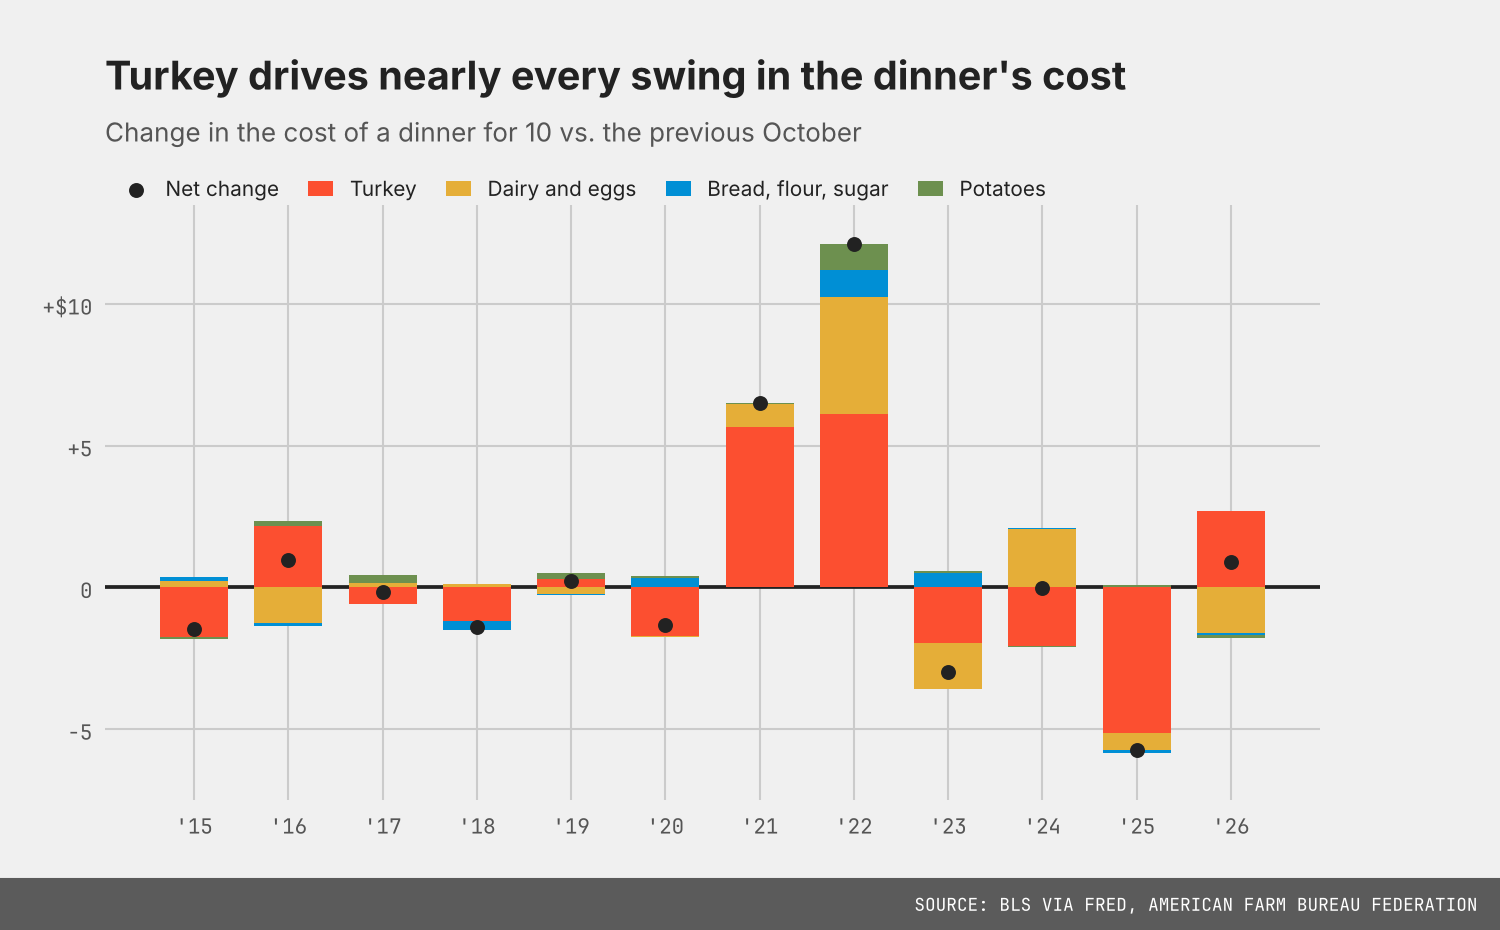
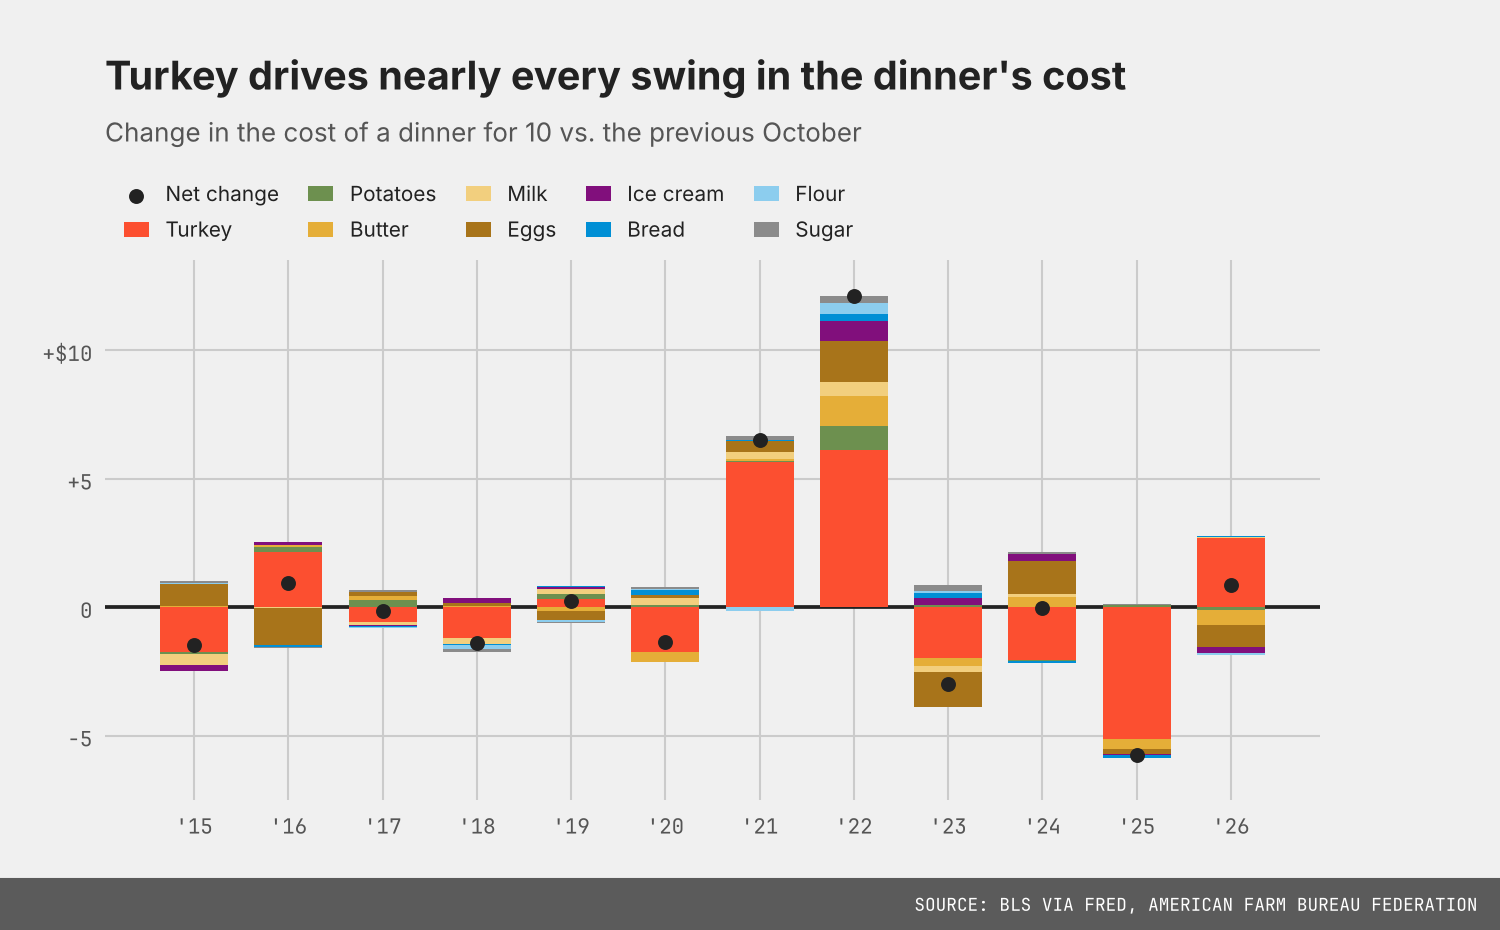
Show all nine dinner items in the contributions chart
Claude-Session: https://claude.ai/code/session_015UrztArHpAPPRd1ooHHwA1

diff --git a/build_index.py b/build_index.py
@@ -189,11 +189,18 @@ cs.finish(fig, "Since 2019, the dinner's price rose less than prices overall",
 
 # 3. YoY contributions, recent years, grouped into four categories
 recent = contrib.loc[2015:]
+# All nine items; related foods share a hue family (dairy = golds, baking = blues)
 groups = {"Turkey": (["Turkey"], cs.RED),
-          "Dairy and eggs": (["Butter", "Eggs", "Milk", "Ice cream (pie)"], cs.GOLD),
-          "Bread, flour, sugar": (["Bread (stuffing)", "Flour (rolls, crust)", "Sugar"], cs.BLUE),
-          "Potatoes": (["Potatoes"], cs.GREEN)}
+          "Potatoes": (["Potatoes"], cs.GREEN),
+          "Butter": (["Butter"], cs.GOLD),
+          "Milk": (["Milk"], "#F2CF7E"),
+          "Eggs": (["Eggs"], "#A8741A"),
+          "Ice cream": (["Ice cream (pie)"], cs.PURPLE),
+          "Bread": (["Bread (stuffing)"], cs.BLUE),
+          "Flour": (["Flour (rolls, crust)"], "#8CCDEE"),
+          "Sugar": (["Sugar"], cs.GRAY)}
 fig, ax = cs.figure()
+fig.subplots_adjust(top=0.72)
 pos = np.zeros(len(recent)); neg = np.zeros(len(recent))
 for name, (cols, c) in groups.items():
     v = recent[cols].sum(axis=1).values
@@ -201,7 +208,7 @@ for name, (cols, c) in groups.items():
     pos += np.where(v >= 0, v, 0); neg += np.where(v < 0, v, 0)
 ax.scatter(recent.index, recent.sum(axis=1), color=cs.TEXT, s=38, zorder=4, label="Net change")
 cs.baseline(ax, 0)
-ax.legend(ncol=5, loc="upper left", bbox_to_anchor=(0, 1.08), handlelength=1.2, columnspacing=1.4)
+ax.legend(ncol=5, loc="lower left", bbox_to_anchor=(0, 1.0), handlelength=1.2, columnspacing=1.4)
 from matplotlib.ticker import FuncFormatter
 ax.set_xticks(recent.index)
 ax.set_xticklabels([f"'{y % 100:02d}" for y in recent.index])
